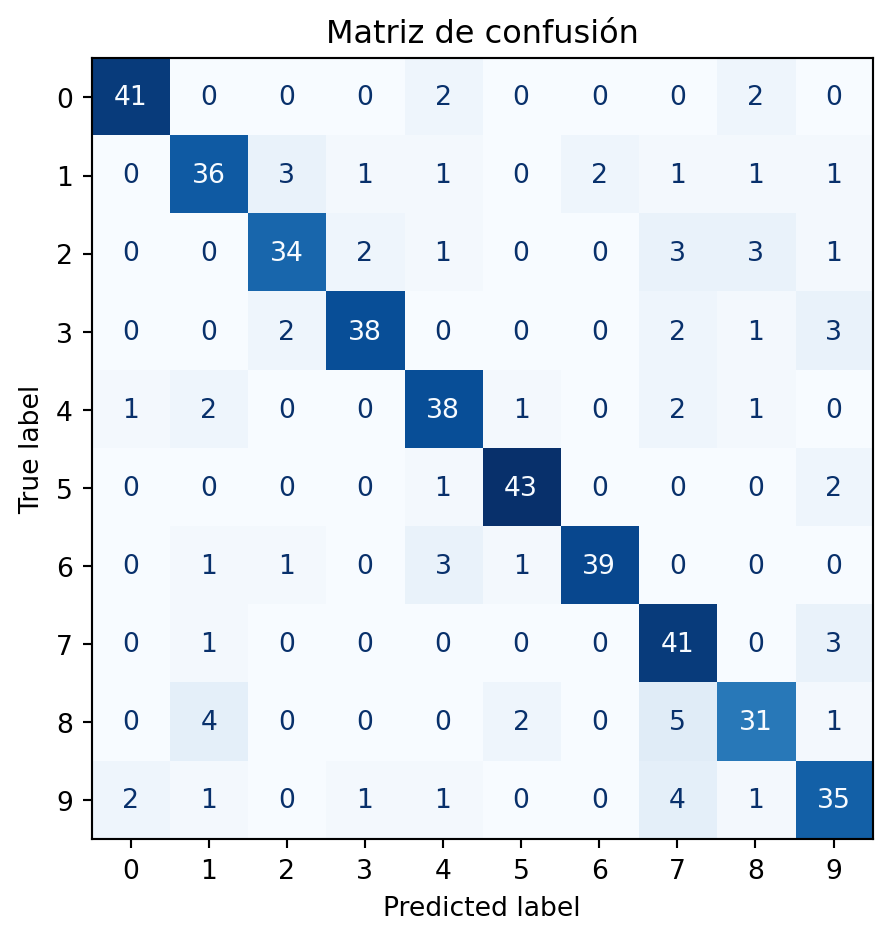
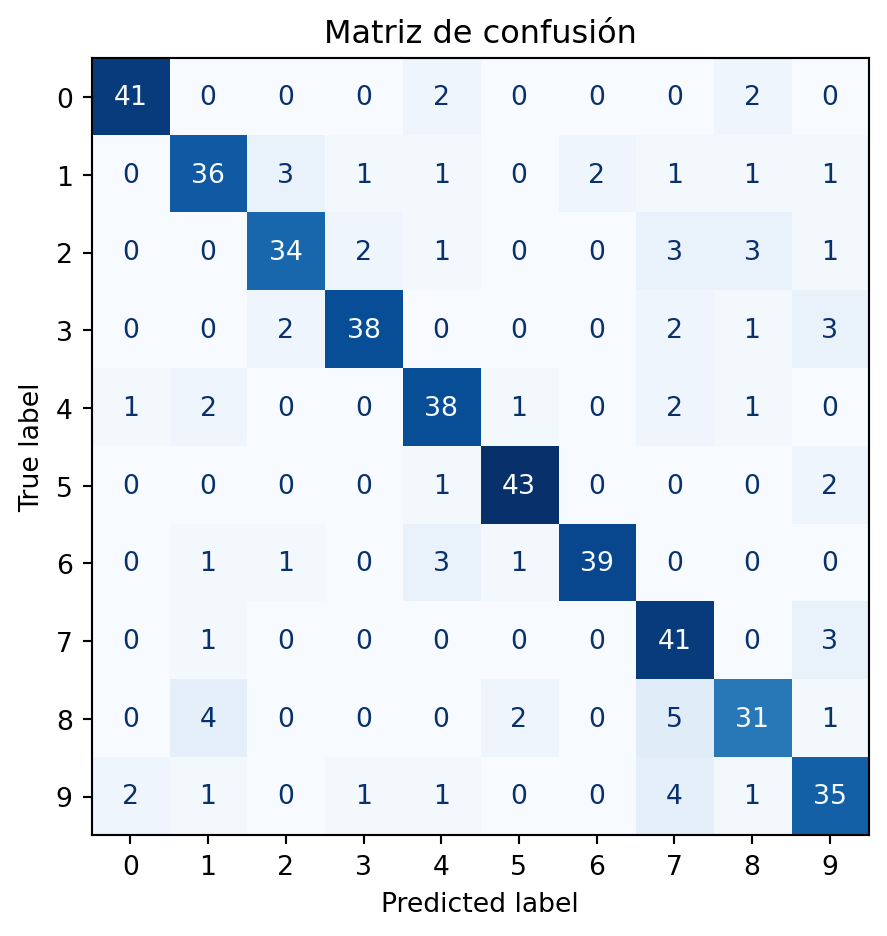
Built site for gh-pages

diff --git a/sesiones/sesion-12.html b/sesiones/sesion-12.html
@@ -658,7 +658,7 @@ Figure&nbsp;1: Diez imágenes del dataset digits. Cada una tiene 8×8 píxeles y
 <div id="fig-prediccion" class="quarto-float quarto-figure quarto-figure-center anchored">
 <figure class="quarto-float quarto-float-fig figure">
 <div aria-describedby="fig-prediccion-caption-0ceaefa1-69ba-4598-a22c-09a6ac19f8ca">
-<img src="sesion-12_files/figure-html/fig-prediccion-output-1.png" width="281" height="323" class="figure-img">
+<img src="sesion-12_files/figure-html/fig-prediccion-output-1.png" width="285" height="328" class="figure-img">
 </div>
 <figcaption class="quarto-float-caption-bottom quarto-float-caption quarto-float-fig" id="fig-prediccion-caption-0ceaefa1-69ba-4598-a22c-09a6ac19f8ca">
 Figure&nbsp;2: Una imagen del grupo de prueba con la predicción del árbol. El modelo puede acertar o equivocarse.
@@ -767,7 +767,7 @@ Figure&nbsp;2: Una imagen del grupo de prueba con la predicción del árbol. El 
 <div id="fig-arbol" class="quarto-float quarto-figure quarto-figure-center anchored">
 <figure class="quarto-float quarto-float-fig figure">
 <div aria-describedby="fig-arbol-caption-0ceaefa1-69ba-4598-a22c-09a6ac19f8ca">
-<img src="sesion-12_files/figure-html/fig-arbol-output-1.png" width="662" height="469" class="figure-img">
+<img src="sesion-12_files/figure-html/fig-arbol-output-1.png" width="662" height="471" class="figure-img">
 </div>
 <figcaption class="quarto-float-caption-bottom quarto-float-caption quarto-float-fig" id="fig-arbol-caption-0ceaefa1-69ba-4598-a22c-09a6ac19f8ca">
 Figure&nbsp;3: Primeros 3 niveles del árbol de decisión. Cada nodo hace una pregunta sobre el valor de un píxel; según la respuesta (✓ Sí / ✗ No) el árbol toma una rama. Los nodos del fondo muestran la clase predicha en ese punto. El árbol completo tiene 10 niveles.
@@ -810,7 +810,7 @@ Figure&nbsp;3: Primeros 3 niveles del árbol de decisión. Cada nodo hace una pr
 <div id="fig-confusion" class="quarto-float quarto-figure quarto-figure-center anchored">
 <figure class="quarto-float quarto-float-fig figure">
 <div aria-describedby="fig-confusion-caption-0ceaefa1-69ba-4598-a22c-09a6ac19f8ca">
-<img src="sesion-12_files/figure-html/fig-confusion-output-1.png" width="446" height="470" class="figure-img">
+<img src="sesion-12_files/figure-html/fig-confusion-output-1.png" width="444" height="468" class="figure-img">
 </div>
 <figcaption class="quarto-float-caption-bottom quarto-float-caption quarto-float-fig" id="fig-confusion-caption-0ceaefa1-69ba-4598-a22c-09a6ac19f8ca">
 Figure&nbsp;4: Cada fila es el dígito real; cada columna es lo que predijo el modelo. La diagonal brillante son aciertos. Los cuadros fuera de la diagonal son errores.

diff --git a/index.html b/index.html
@@ -188,11 +188,7 @@ ul.task-list li input[type="checkbox"] {
 
 
 
-<!-- ===================================================
-     PASSWORD GATE — Curso IA · SLP 2026
-     Cambia la contraseña en la constante PASSWORD abajo.
-     localStorage key: curso_ia_slp_unlocked
-=================================================== -->
+
 <style>
   /* ---- Overlay backdrop ---- */
   #pw-overlay {
@@ -385,7 +381,7 @@ ul.task-list li input[type="checkbox"] {
 <script>
 (function () {
   const KEY      = 'curso_ia_slp_unlocked';
-  const PASSWORD = 'cursoia2026'; // ← cambia la contraseña aquí
+  const PASSWORD = 'cursoia2026'; // 
 
   const overlay = document.getElementById('pw-overlay');
   const input   = document.getElementById('pw-input');
@@ -430,7 +426,7 @@ ul.task-list li input[type="checkbox"] {
 <style>
   /* ================================================
      LANDING PAGE — Curso IA · SLP
-     Paleta coherente con tema Quarto Cosmo
+     Paleta con tema Quarto Cosmo
   ================================================ */
 
   /* Reset body para la landing */

diff --git a/sesiones/sesion-06.html b/sesiones/sesion-06.html
@@ -258,10 +258,8 @@ ul.task-list li input[type="checkbox"] {
 </section>
 <section id="video-grabación" class="level2">
 <h2 class="anchored" data-anchor-id="video-grabación">Video / Grabación</h2>
-<div class="video-placeholder">
-  <span class="vp-icon">▶</span>
-  <p class="vp-title">Grabación de la sesión — próximamente</p>
-  <p>Aquí se publicará el replay del Zoom una vez que termine la sesión en vivo.</p>
+<div class="video-capsule">
+  <iframe src="https://share.descript.com/embed/n2nWa31hZCE" width="640" height="360" frameborder="0" allowfullscreen=""></iframe>
 </div>
 </section>
 <section id="de-qué-trata-esta-sesión" class="level2">
